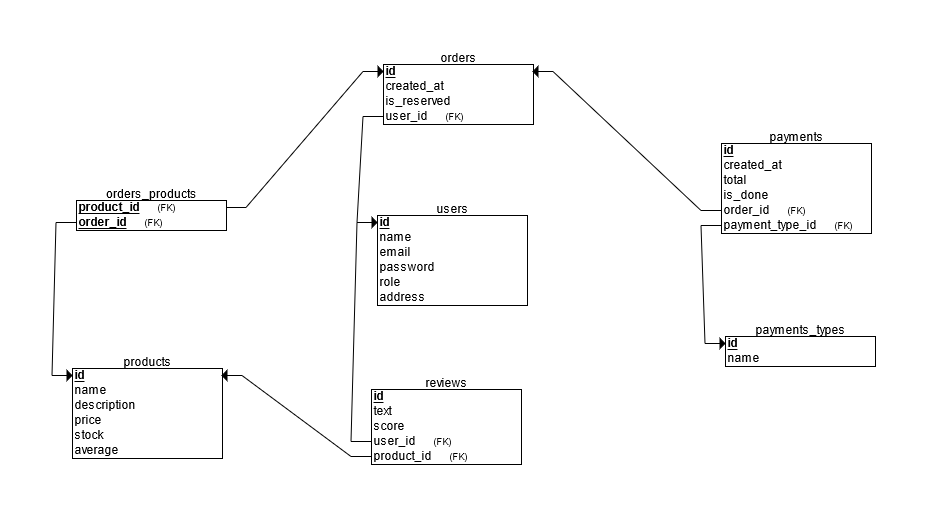
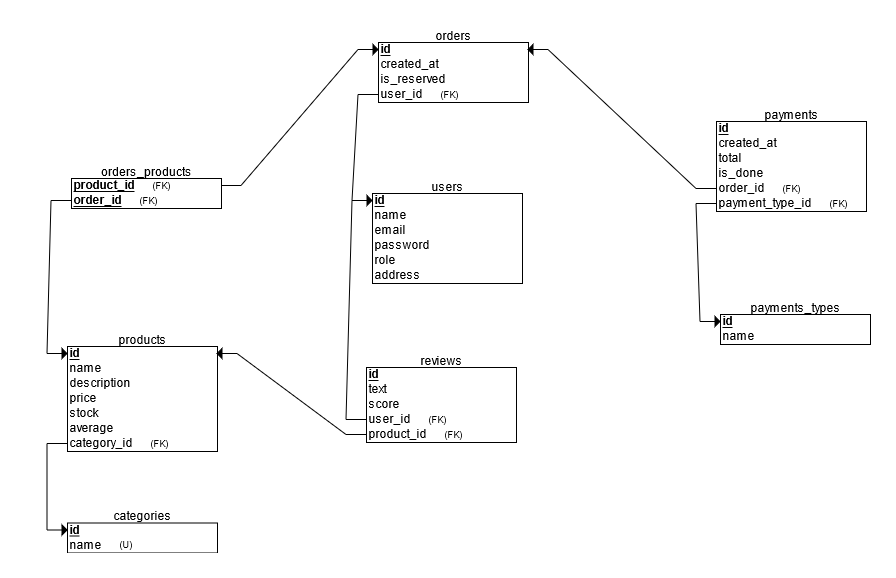
Modificada base de datos para incluir categorías

diff --git a/backend/Server/Server/Models/FarminhouseContext.cs b/backend/Server/Server/Models/FarminhouseContext.cs
@@ -1,0 +1,244 @@
+using System;
+using System.Collections.Generic;
+using Microsoft.EntityFrameworkCore;
+
+namespace Server.Models;
+
+public partial class FarminhouseContext : DbContext
+{
+    public FarminhouseContext()
+    {
+    }
+
+    public FarminhouseContext(DbContextOptions<FarminhouseContext> options)
+        : base(options)
+    {
+    }
+
+    public virtual DbSet<Category> Categories { get; set; }
+
+    public virtual DbSet<Order> Orders { get; set; }
+
+    public virtual DbSet<Payment> Payments { get; set; }
+
+    public virtual DbSet<PaymentsType> PaymentsTypes { get; set; }
+
+    public virtual DbSet<Product> Products { get; set; }
+
+    public virtual DbSet<Review> Reviews { get; set; }
+
+    public virtual DbSet<User> Users { get; set; }
+
+    protected override void OnConfiguring(DbContextOptionsBuilder optionsBuilder)
+#warning To protect potentially sensitive information in your connection string, you should move it out of source code. You can avoid scaffolding the connection string by using the Name= syntax to read it from configuration - see https://go.microsoft.com/fwlink/?linkid=2131148. For more guidance on storing connection strings, see https://go.microsoft.com/fwlink/?LinkId=723263.
+        => optionsBuilder.UseSqlite("DataSource=farminhouse.db");
+
+    protected override void OnModelCreating(ModelBuilder modelBuilder)
+    {
+        modelBuilder.Entity<Category>(entity =>
+        {
+            entity.ToTable("categories");
+
+            entity.HasIndex(e => e.Name, "IX_categories_name").IsUnique();
+
+            entity.Property(e => e.Id)
+                .ValueGeneratedNever()
+                .HasColumnType("INT")
+                .HasColumnName("id");
+            entity.Property(e => e.Name)
+                .IsRequired()
+                .HasColumnType("VARCHAR(45)")
+                .HasColumnName("name");
+        });
+
+        modelBuilder.Entity<Order>(entity =>
+        {
+            entity.ToTable("orders");
+
+            entity.Property(e => e.Id)
+                .ValueGeneratedNever()
+                .HasColumnType("INT")
+                .HasColumnName("id");
+            entity.Property(e => e.CreatedAt)
+                .HasColumnType("DATE")
+                .HasColumnName("created_at");
+            entity.Property(e => e.IsReserved)
+                .HasColumnType("INT")
+                .HasColumnName("is_reserved");
+            entity.Property(e => e.UserId)
+                .HasColumnType("INT")
+                .HasColumnName("user_id");
+
+            entity.HasOne(d => d.User).WithMany(p => p.Orders)
+                .HasForeignKey(d => d.UserId)
+                .OnDelete(DeleteBehavior.ClientSetNull);
+
+            entity.HasMany(d => d.Products).WithMany(p => p.Orders)
+                .UsingEntity<Dictionary<string, object>>(
+                    "OrdersProduct",
+                    r => r.HasOne<Product>().WithMany()
+                        .HasForeignKey("OrderId")
+                        .OnDelete(DeleteBehavior.ClientSetNull),
+                    l => l.HasOne<Order>().WithMany()
+                        .HasForeignKey("ProductId")
+                        .OnDelete(DeleteBehavior.ClientSetNull),
+                    j =>
+                    {
+                        j.HasKey("ProductId", "OrderId");
+                        j.ToTable("orders_products");
+                        j.IndexerProperty<int>("ProductId")
+                            .HasColumnType("INT")
+                            .HasColumnName("product_id");
+                        j.IndexerProperty<int>("OrderId")
+                            .HasColumnType("INT")
+                            .HasColumnName("order_id");
+                    });
+        });
+
+        modelBuilder.Entity<Payment>(entity =>
+        {
+            entity.ToTable("payments");
+
+            entity.Property(e => e.Id)
+                .ValueGeneratedNever()
+                .HasColumnType("INT")
+                .HasColumnName("id");
+            entity.Property(e => e.CreatedAt)
+                .HasColumnType("DATE")
+                .HasColumnName("created_at");
+            entity.Property(e => e.IsDone)
+                .HasColumnType("INT")
+                .HasColumnName("is_done");
+            entity.Property(e => e.OrderId)
+                .HasColumnType("INT")
+                .HasColumnName("order_id");
+            entity.Property(e => e.PaymentTypeId)
+                .HasColumnType("INT")
+                .HasColumnName("payment_type_id");
+            entity.Property(e => e.Total)
+                .HasColumnType("FLOAT")
+                .HasColumnName("total");
+
+            entity.HasOne(d => d.Order).WithMany(p => p.Payments)
+                .HasForeignKey(d => d.OrderId)
+                .OnDelete(DeleteBehavior.ClientSetNull);
+
+            entity.HasOne(d => d.PaymentType).WithMany(p => p.Payments)
+                .HasForeignKey(d => d.PaymentTypeId)
+                .OnDelete(DeleteBehavior.ClientSetNull);
+        });
+
+        modelBuilder.Entity<PaymentsType>(entity =>
+        {
+            entity.ToTable("payments_types");
+
+            entity.Property(e => e.Id)
+                .ValueGeneratedNever()
+                .HasColumnType("INT")
+                .HasColumnName("id");
+            entity.Property(e => e.Name)
+                .IsRequired()
+                .HasColumnType("VARCHAR(45)")
+                .HasColumnName("name");
+        });
+
+        modelBuilder.Entity<Product>(entity =>
+        {
+            entity.ToTable("products");
+
+            entity.Property(e => e.Id)
+                .ValueGeneratedNever()
+                .HasColumnType("INT")
+                .HasColumnName("id");
+            entity.Property(e => e.Average)
+                .HasColumnType("FLOAT")
+                .HasColumnName("average");
+            entity.Property(e => e.CategoryId)
+                .HasColumnType("INT")
+                .HasColumnName("category_id");
+            entity.Property(e => e.Description)
+                .IsRequired()
+                .HasColumnType("VARCHAR(255)")
+                .HasColumnName("description");
+            entity.Property(e => e.Name)
+                .IsRequired()
+                .HasColumnType("VARCHAR(45)")
+                .HasColumnName("name");
+            entity.Property(e => e.Price)
+                .HasColumnType("FLOAT")
+                .HasColumnName("price");
+            entity.Property(e => e.Stock)
+                .HasColumnType("INT")
+                .HasColumnName("stock");
+
+            entity.HasOne(d => d.Category).WithMany(p => p.Products)
+                .HasForeignKey(d => d.CategoryId)
+                .OnDelete(DeleteBehavior.ClientSetNull);
+        });
+
+        modelBuilder.Entity<Review>(entity =>
+        {
+            entity.ToTable("reviews");
+
+            entity.Property(e => e.Id)
+                .ValueGeneratedNever()
+                .HasColumnType("INT")
+                .HasColumnName("id");
+            entity.Property(e => e.ProductId)
+                .HasColumnType("INT")
+                .HasColumnName("product_id");
+            entity.Property(e => e.Score)
+                .HasColumnType("INT")
+                .HasColumnName("score");
+            entity.Property(e => e.Text)
+                .IsRequired()
+                .HasColumnType("VARCHAR(255)")
+                .HasColumnName("text");
+            entity.Property(e => e.UserId)
+                .HasColumnType("INT")
+                .HasColumnName("user_id");
+
+            entity.HasOne(d => d.Product).WithMany(p => p.Reviews)
+                .HasForeignKey(d => d.ProductId)
+                .OnDelete(DeleteBehavior.ClientSetNull);
+
+            entity.HasOne(d => d.User).WithMany(p => p.Reviews)
+                .HasForeignKey(d => d.UserId)
+                .OnDelete(DeleteBehavior.ClientSetNull);
+        });
+
+        modelBuilder.Entity<User>(entity =>
+        {
+            entity.ToTable("users");
+
+            entity.Property(e => e.Id)
+                .ValueGeneratedNever()
+                .HasColumnType("INT")
+                .HasColumnName("id");
+            entity.Property(e => e.Address)
+                .IsRequired()
+                .HasColumnType("VARCHAR(255)")
+                .HasColumnName("address");
+            entity.Property(e => e.Email)
+                .IsRequired()
+                .HasColumnType("VARCHAR(255)")
+                .HasColumnName("email");
+            entity.Property(e => e.Name)
+                .IsRequired()
+                .HasColumnType("VARCHAR(45)")
+                .HasColumnName("name");
+            entity.Property(e => e.Password)
+                .IsRequired()
+                .HasColumnType("VARCHAR(255)")
+                .HasColumnName("password");
+            entity.Property(e => e.Role)
+                .IsRequired()
+                .HasColumnType("VARCHAR(45)")
+                .HasColumnName("role");
+        });
+
+        OnModelCreatingPartial(modelBuilder);
+    }
+
+    partial void OnModelCreatingPartial(ModelBuilder modelBuilder);
+}

diff --git a/backend/Server/Server/Models/User.cs b/backend/Server/Server/Models/User.cs
@@ -7,22 +7,20 @@ public partial class User
 {
     public int Id { get; set; }
 
-    public string Name { get; set; } = null!;
+    public string Name { get; set; }
 
+    public string Email { get; set; }
 
-    public string Email { get; set; } = null!;
+    public string Password { get; set; }
 
-    public string Password { get; set; } = null!;
+    public string Role { get; set; }
 
-    public string Role { get; set; } = null!;
-
-    public string Address { get; set; } = null!;
+    public string Address { get; set; }
 
     public virtual ICollection<Order> Orders { get; set; } = new List<Order>();
 
     public virtual ICollection<Review> Reviews { get; set; } = new List<Review>();
 }
-
 
 public partial class UserDto
 {

diff --git a/backend/Server/Server/Models/Product.cs b/backend/Server/Server/Models/Product.cs
@@ -5,17 +5,21 @@ namespace Server.Models;
 
 public partial class Product
 {
-    public string Name { get; set; } = null!;
+    public string Name { get; set; }
 
     public int Id { get; set; }
 
-    public string Description { get; set; } = null!;
+    public string Description { get; set; }
 
     public double Price { get; set; }
 
     public int Stock { get; set; }
 
     public double Average { get; set; }
+
+    public int CategoryId { get; set; }
+
+    public virtual Category Category { get; set; }
 
     public virtual ICollection<Review> Reviews { get; set; } = new List<Review>();
 

diff --git a/backend/Server/Server/Models/Review.cs b/backend/Server/Server/Models/Review.cs
@@ -7,7 +7,7 @@ public partial class Review
 {
     public int Id { get; set; }
 
-    public string Text { get; set; } = null!;
+    public string Text { get; set; }
 
     public int Score { get; set; }
 
@@ -15,7 +15,7 @@ public partial class Review
 
     public int ProductId { get; set; }
 
-    public virtual Product Product { get; set; } = null!;
+    public virtual Product Product { get; set; }
 
-    public virtual User User { get; set; } = null!;
+    public virtual User User { get; set; }
 }

diff --git a/backend/Server/Server/Models/Category.cs b/backend/Server/Server/Models/Category.cs
@@ -3,11 +3,11 @@ using System.Collections.Generic;
 
 namespace Server.Models;
 
-public partial class PaymentsType
+public partial class Category
 {
     public string Name { get; set; }
 
     public int Id { get; set; }
 
-    public virtual ICollection<Payment> Payments { get; set; } = new List<Payment>();
+    public virtual ICollection<Product> Products { get; set; } = new List<Product>();
 }

diff --git a/backend/Server/Server/Models/Payment.cs b/backend/Server/Server/Models/Payment.cs
@@ -17,7 +17,7 @@ public partial class Payment
 
     public int PaymentTypeId { get; set; }
 
-    public virtual Order Order { get; set; } = null!;
+    public virtual Order Order { get; set; }
 
-    public virtual PaymentsType PaymentType { get; set; } = null!;
+    public virtual PaymentsType PaymentType { get; set; }
 }

diff --git a/backend/Server/Server/Models/Order.cs b/backend/Server/Server/Models/Order.cs
@@ -15,7 +15,7 @@ public partial class Order
 
     public virtual ICollection<Payment> Payments { get; set; } = new List<Payment>();
 
-    public virtual User User { get; set; } = null!;
+    public virtual User User { get; set; }
 
     public virtual ICollection<Product> Products { get; set; } = new List<Product>();
 }
